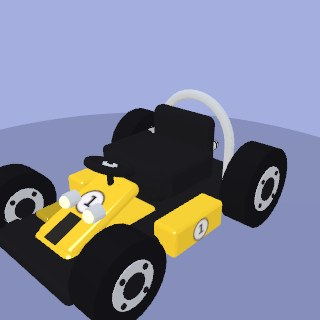
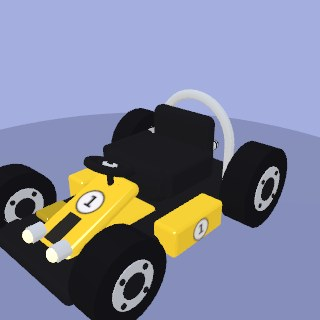
Bumper-mounted bullet lights, weld the cage joins, park moto + minivan
- The off-road bullet headlights moved down onto the front bumper (the
  stalks on the sloping cowl sat awkwardly and tilted with it).
- Cage joins cleaned up: weld balls at every tube junction — bare
  cylinder ends meeting at angles left open seams at the corners.
- Wheelie (moto) and Vanilla (minivan) are PARKED for now: presets and
  catalog entries removed (Prowler shifts to kart.9, 550 treats), and
  the custom creator's style stepper skips styles 4/5 (saved custom
  karts on those styles fall back to GP). The model code stays for their
  return; the asset viewer still shows both for inspection.

Claude-Session: https://claude.ai/code/session_017fyz1DfGtQ1NoLSq3UX5Bd

Changed region(s): [[0.1875, 0.5938, 0.3438, 0.7188], [0.125, 0.7188, 0.25, 0.8438], [0.0625, 0.6875, 0.1562, 0.7812]]

diff --git a/src/main.js b/src/main.js
@@ -84,6 +84,9 @@ import { CAT_PRESETS, KART_PRESETS, DEFAULT_CUSTOM_CAT, DEFAULT_CUSTOM_KART } fr
 const CUSTOM_CAT_IDX = CAT_PRESETS.length;
 const CUSTOM_KART_IDX = KART_PRESETS.length;
 const KART_STYLE_COUNT = 7; // GP / roadster / buggy / finned / moto / minivan / cage (see createKartModel STYLES)
+// Styles the custom creator currently offers — moto (4) and minivan (5) are
+// parked for now (the model code stays; they'll come back later).
+const CREATOR_KART_STYLES = [0, 1, 2, 3, 6];
 const GARAGE_KEY = "zoomies-garage-v1";
 const _clampInt = (v, lo, hi, dflt) => (Number.isInteger(v) && v >= lo && v <= hi ? v : dflt);
 const _clampColor = (v, dflt) => (Number.isInteger(v) && v >= 0 && v <= 0xffffff ? v : dflt);
@@ -101,10 +104,12 @@ function sanitizeCustomCat(c) {
 }
 function sanitizeCustomKart(k) {
   k = k && typeof k === "object" ? k : {};
+  let style = _clampInt(k.style, 0, KART_STYLE_COUNT - 1, DEFAULT_CUSTOM_KART.style);
+  if (!CREATOR_KART_STYLES.includes(style)) style = DEFAULT_CUSTOM_KART.style; // parked styles fall back
   return {
     name: _clampName(k.name, DEFAULT_CUSTOM_KART.name),
     color: _clampColor(k.color, DEFAULT_CUSTOM_KART.color),
-    style: _clampInt(k.style, 0, KART_STYLE_COUNT - 1, DEFAULT_CUSTOM_KART.style),
+    style,
     number: _clampInt(k.number, 0, 99, DEFAULT_CUSTOM_KART.number),
   };
 }
@@ -3742,13 +3747,18 @@ document.getElementById("cat-randomize")?.addEventListener("click", () => {
 
 // Custom-kart creator controls.
 _buildSwatchGrid("kart-color-grid", KART_COLOR_SWATCHES, (c) => editCustomKart({ color: c }));
-document.getElementById("kart-style-prev")?.addEventListener("click", () => editCustomKart({ style: (_garageDraft.customKart.style + KART_STYLE_COUNT - 1) % KART_STYLE_COUNT }));
-document.getElementById("kart-style-next")?.addEventListener("click", () => editCustomKart({ style: (_garageDraft.customKart.style + 1) % KART_STYLE_COUNT }));
+// The stepper walks CREATOR_KART_STYLES (parked styles are skipped).
+const _stepKartStyle = (dir) => {
+  const cur = Math.max(0, CREATOR_KART_STYLES.indexOf(_garageDraft.customKart.style));
+  editCustomKart({ style: CREATOR_KART_STYLES[(cur + dir + CREATOR_KART_STYLES.length) % CREATOR_KART_STYLES.length] });
+};
+document.getElementById("kart-style-prev")?.addEventListener("click", () => _stepKartStyle(-1));
+document.getElementById("kart-style-next")?.addEventListener("click", () => _stepKartStyle(1));
 document.getElementById("kart-num-prev")?.addEventListener("click", () => editCustomKart({ number: (_garageDraft.customKart.number + 99) % 100 }));
 document.getElementById("kart-num-next")?.addEventListener("click", () => editCustomKart({ number: (_garageDraft.customKart.number + 1) % 100 }));
 document.getElementById("kart-custom-name")?.addEventListener("input", (e) => editCustomKart({ name: e.target.value.slice(0, 14) }, false));
 document.getElementById("kart-randomize")?.addEventListener("click", () => editCustomKart({
-  color: _pick(KART_COLOR_SWATCHES), style: Math.floor(Math.random() * KART_STYLE_COUNT), number: Math.floor(Math.random() * 100), name: _pick(CUSTOM_KART_NAMES),
+  color: _pick(KART_COLOR_SWATCHES), style: _pick(CREATOR_KART_STYLES), number: Math.floor(Math.random() * 100), name: _pick(CUSTOM_KART_NAMES),
 }));
 
 document.getElementById("garage-buy")?.addEventListener("click", (e) => {

diff --git a/src/models.js b/src/models.js
@@ -1450,14 +1450,12 @@ export function createKartModel(bodyColor = 0xe53935, opts = {}) {
         winglet.position.set(sx * 0.64, 0.6, 1.25);
       }
       if (st.hoop || st.cage) {
-        // Off-roaders wear round pod headlights up on chrome stalks (classic
-        // dune-buggy bullets). The glowing lenses join the headlight merge below.
+        // Off-roaders wear round bullet headlights perched ON the front
+        // bumper. The glowing lenses join the headlight merge below.
         for (const sx of [-1, 1]) {
-          const stem = add(new THREE.Mesh(new THREE.CylinderGeometry(0.035, 0.035, 0.28, 8), chrome));
-          stem.position.set(sx * 0.3, 0.74, snout - 0.2);
-          const pod = add(new THREE.Mesh(new THREE.CylinderGeometry(0.13, 0.13, 0.2, 14), chrome));
+          const pod = add(new THREE.Mesh(new THREE.CylinderGeometry(0.13, 0.13, 0.22, 14), chrome));
           pod.rotation.x = Math.PI / 2;
-          pod.position.set(sx * 0.3, 0.92, snout - 0.18);
+          pod.position.set(sx * 0.32, 0.62, snout + 0.48);
         }
       }
       // Steering post drops STRAIGHT DOWN from the hub into the panel — well
@@ -1516,6 +1514,21 @@ export function createKartModel(bodyColor = 0xe53935, opts = {}) {
           const cross = add(new THREE.Mesh(tube(1.68), paint));
           cross.rotation.z = Math.PI / 2;
           cross.position.set(0, cy, cz);
+        }
+        // Weld balls round off every tube junction — bare cylinder ends meeting
+        // at angles left open seams at the joins.
+        const JOINTS = [
+          [0.82, 2.72, -0.64], // diagonal top / rail front / front crossbar
+          [0.82, 2.73, -1.78], // rear hoop top / rail rear / rear crossbar
+          [0.82, 1.63, 0.44],  // mid-brace into the diagonals
+          [0.82, 0.55, 1.5],   // diagonal feet on the nose
+          [0.82, 0.5, -1.68],  // rear hoop feet on the pan
+        ];
+        for (const [jx, jy, jz] of JOINTS) {
+          for (const sx of [-1, 1]) {
+            const ball = add(new THREE.Mesh(new THREE.SphereGeometry(0.095, 12, 10), paint));
+            ball.position.set(sx * jx, jy, jz);
+          }
         }
       }
     }
@@ -1627,10 +1640,10 @@ export function createKartModel(bodyColor = 0xe53935, opts = {}) {
       hlParts.push(light);
     }
   } else if (st.hoop || st.cage) {
-    // Lenses for the pod headlights on stalks (housings built in the shell).
+    // Lenses for the bumper-mounted bullet pods (housings built in the shell).
     for (const sx of [-1, 1]) {
       const lens = new THREE.Mesh(new THREE.SphereGeometry(0.105, 12, 12), glass);
-      lens.position.set(sx * 0.3, 0.92, (st.snout ?? 1.55) - 0.05);
+      lens.position.set(sx * 0.32, 0.62, (st.snout ?? 1.55) + 0.62);
       lens.scale.set(1, 1, 0.7); // shallow dome poking out of the housing
       hlParts.push(lens);
     }

diff --git a/src/presets.js b/src/presets.js
@@ -34,8 +34,8 @@ export const KART_PRESETS = [
   { name: "Teal", color: 0x00897b, style: 0, number: 8 },
   { name: "Comet", color: 0x26c6da, style: 3, number: 2 }, // jet-age finned speedster
   { name: "Nova", color: 0xec407a, style: 3, number: 6 },
-  { name: "Wheelie", color: 0xff7043, style: 4, number: 10 }, // café-racer moto (training wheels included)
-  { name: "Vanilla", color: 0xf5efdd, style: 5, number: 11 }, // open-top minivan — the roof's cut out so the cat fits
+  // (Wheelie the moto and Vanilla the minivan are parked for now — their model
+  // styles 4 and 5 still exist in createKartModel and will return later.)
   { name: "Prowler", color: 0x3949ab, style: 6, number: 12 }, // off-road buggy with a full roll cage
 ];
 

diff --git a/src/progress.js b/src/progress.js
@@ -87,9 +87,7 @@ export const CATALOG = [
   { id: "kart.6", price: 300 },
   { id: "kart.7", cup: "meadows" },  // Comet — Catnip Meadows Cup exclusive
   { id: "kart.8", cup: "meowtain" }, // Nova — Meowtain Cup exclusive
-  { id: "kart.9", price: 350 },      // Wheelie — the moto
-  { id: "kart.10", price: 450 },     // Vanilla — the open-top minivan
-  { id: "kart.11", price: 550 },     // Prowler — the caged off-road buggy
+  { id: "kart.9", price: 550 },      // Prowler — the caged off-road buggy
   // The custom creators are features you earn.
   { id: "custom.cat", price: 600 },
   { id: "custom.kart", price: 600 },
